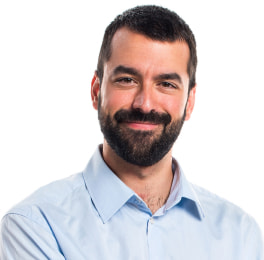
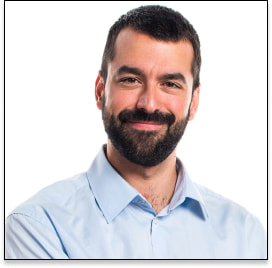
Fixed images, added Features <h2> tag, wrapped email and phone in <address> tag.

diff --git a/index.html b/index.html
@@ -17,10 +17,12 @@
           <li><a href="">Contacts</a></li>
         </ul>
       </nav>
-      <ul>
-        <li><a href="mailto:info@devstudio.com">info@devstudio.com</a></li>
-        <li><a href="tel:+110001111111">+11 (000) 111-11-11</a></li>
-      </ul>
+      <address>
+        <ul>
+          <li><a href="mailto:info@devstudio.com">info@devstudio.com</a></li>
+          <li><a href="tel:+110001111111">+11 (000) 111-11-11</a></li>
+        </ul>
+      </address>
     </header>
 
     <main>
@@ -31,6 +33,7 @@
       </section>
       <!-- section 1 -->
       <section>
+        <h2>Features</h2>
         <ul>
           <li>
             <h3>Strategy</h3>
